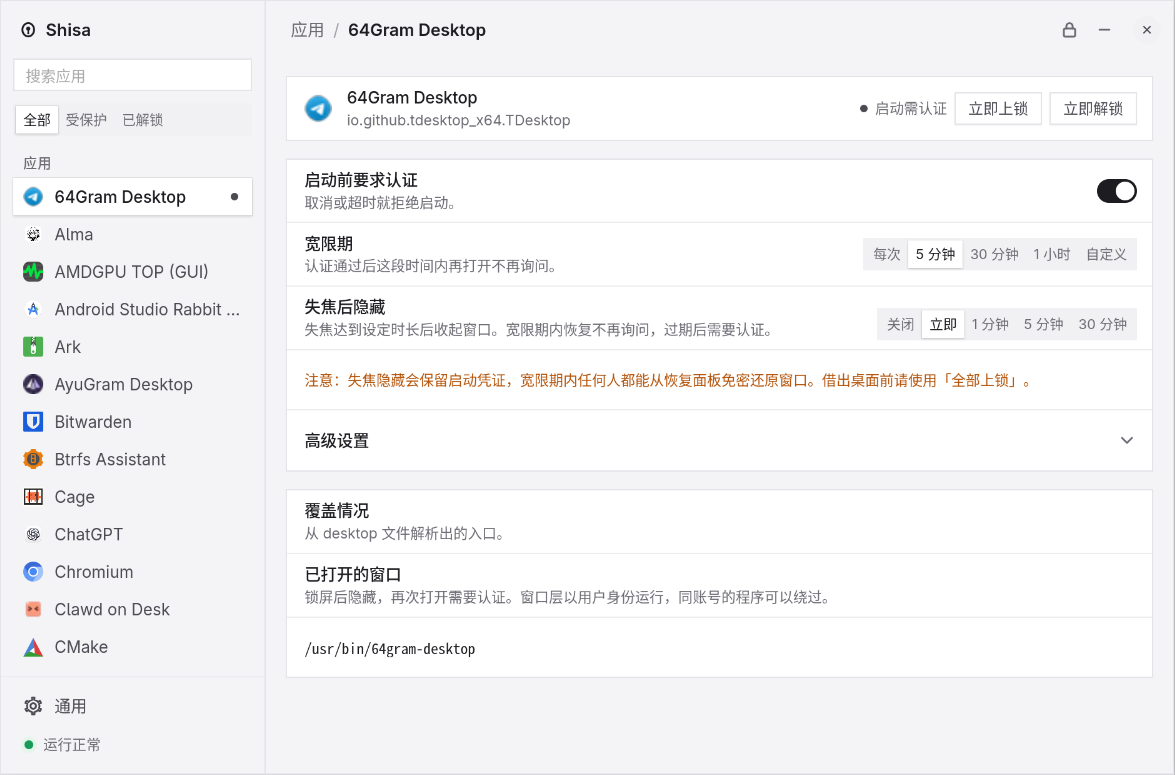
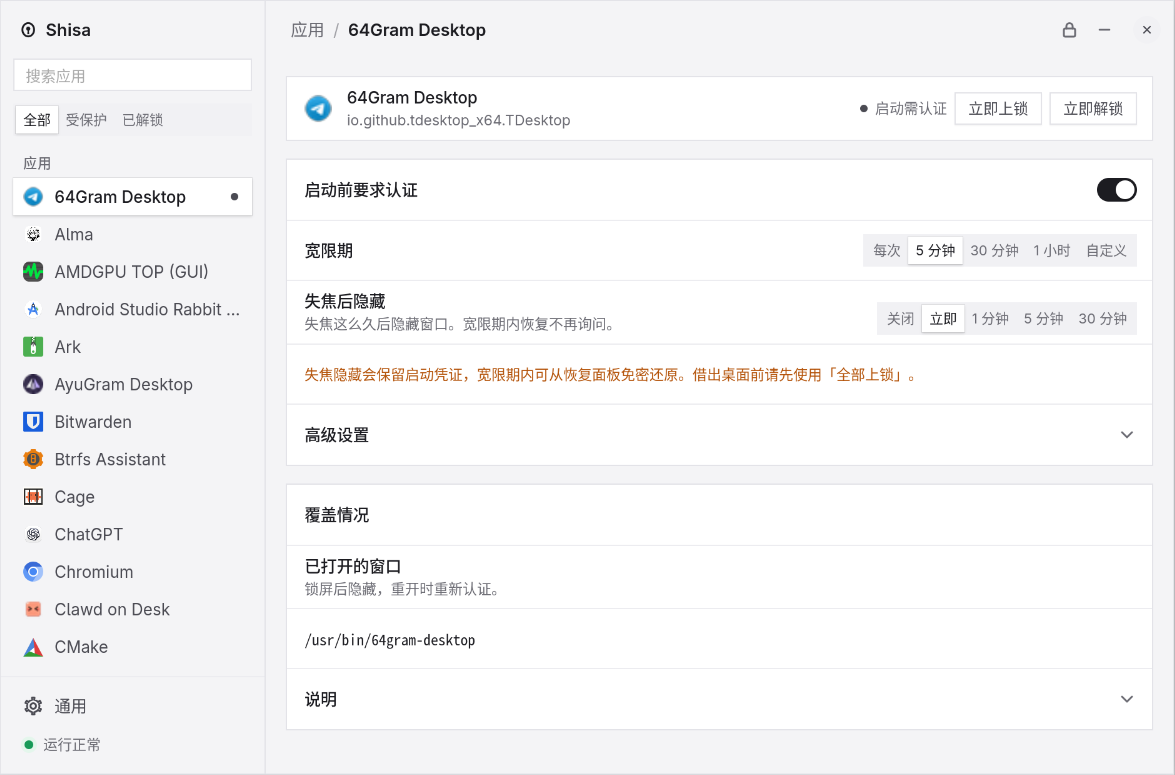
settings: shorten option copy and fold the mechanics (#22)
Drop descriptions that only repeated the label, move the lockout
rules and trust notes into per-card Notes folds, keep the faillock
command on one line, and regenerate the README screenshots.

diff --git a/gui/shisa-settings/src/i18n.js b/gui/shisa-settings/src/i18n.js
@@ -18,6 +18,7 @@ const zh = {
   "common.add": "添加",
   "common.remove": "移除",
   "common.close": "关闭",
+  "common.notes": "说明",
 
   "filters.all": "全部",
   "filters.protected": "受保护",
@@ -65,11 +66,13 @@ const zh = {
   "general.grace.name": "默认宽限期",
   "general.grace.sub": "认证通过后这段时间内再打开不再询问。",
   "general.clear.name": "锁屏时清除已通过的认证",
-  "general.clear.sub":
-    "开启时锁屏会收回已打开的受保护窗口，解锁后恢复要重新认证。关掉后锁屏不改变正在使用的窗口，只影响下一次启动。",
+  "general.clear.sub": "开启后锁屏收回受保护窗口，解锁后重新认证。",
+  "general.clear.note": "关闭时，锁屏不改变正在使用的窗口，只影响下一次启动。",
   "general.timeout.name": "认证框等待上限",
   "general.timeout.sub":
-    "最多等这么久，超时就拒绝启动。取消或超时也会被系统记一次认证失败，连续 3 次后应用锁暂停约 10 分钟，不影响登录。需要立即解除暂停时运行",
+    "超时即拒绝启动。连续 3 次认证失败会暂停应用锁约 10 分钟。",
+  "general.timeout.note":
+    "取消和超时都算一次认证失败，暂停只影响应用锁，不影响登录。需要立即解除时运行",
   "general.timeout.after": "。",
   "general.timeout.unit": "秒 · 5 到 85",
   "general.custom": "自定义",
@@ -110,20 +113,17 @@ const zh = {
   "app.unlockNow": "立即解锁",
   "app.failure": "最近一次启动失败",
   "app.protect.name": "启动前要求认证",
-  "app.protect.sub.on": "取消或超时就拒绝启动。",
   "app.grace.name": "宽限期",
-  "app.grace.sub.zero": "0 表示每次启动都要认证。",
-  "app.grace.sub": "认证通过后这段时间内再打开不再询问。",
   "app.relock.name": "失焦后隐藏",
-  "app.relock.sub":
-    "失焦达到设定时长后收起窗口。宽限期内恢复不再询问，过期后需要认证。",
+  "app.relock.sub": "失焦这么久后隐藏窗口。宽限期内恢复不再询问。",
   "app.relock.warn":
-    "注意：失焦隐藏会保留启动凭证，宽限期内任何人都能从恢复面板免密还原窗口。借出桌面前请使用「全部上锁」。",
+    "失焦隐藏会保留启动凭证，宽限期内可从恢复面板免密还原。借出桌面前请先使用「全部上锁」。",
   "app.advanced": "高级设置",
   "app.customRelock": "自定义失焦时长",
   "app.autostart.name": "自启动",
-  "app.autostart.sub":
-    "登录后 30 秒内从自启动单元启动时直接放行。这个单元名同账号可以伪造，只适合你信任自己登录后第一分钟的情况。",
+  "app.autostart.sub": "登录后 30 秒内的自启动直接放行。",
+  "app.autostart.warn":
+    "单元名同账号可以伪造，只在你信任自己登录后第一分钟时使用。",
   "app.autostart.prompt": "要求认证",
   "app.autostart.allow": "放行",
   "app.path.inactive":
@@ -133,10 +133,11 @@ const zh = {
   "app.path.none": "还没有路径。",
   "app.path.placeholder": "/usr/bin/程序 或 /opt/游戏/启动器",
   "app.coverage.name": "覆盖情况",
-  "app.coverage.sub": "从 desktop 文件解析出的入口。",
+  "app.coverage.note":
+    "覆盖情况列出从 desktop 文件解析出的入口，未生效的路径会单独标出。",
   "app.windows.name": "已打开的窗口",
-  "app.windows.sub":
-    "锁屏后隐藏，再次打开需要认证。窗口层以用户身份运行，同账号的程序可以绕过。",
+  "app.windows.sub": "锁屏后隐藏，重开时重新认证。",
+  "app.windows.note": "窗口层以用户身份运行，同账号的程序可以绕过隐藏和恢复。",
   "app.path.inactivePrefix": "未生效：",
   "app.coverage.empty": "没有从 desktop 文件解析到可保护的入口。",
   "app.none": "选择左侧的应用",
@@ -203,6 +204,7 @@ const en = {
   "common.add": "Add",
   "common.remove": "Remove",
   "common.close": "Close",
+  "common.notes": "Notes",
 
   "filters.all": "All",
   "filters.protected": "Protected",
@@ -253,10 +255,14 @@ const en = {
     "After a successful authentication, launches in this period do not ask again.",
   "general.clear.name": "Clear authentication on screen lock",
   "general.clear.sub":
-    "When on, locking the screen hides protected windows, and restoring them asks again after unlock. When off, the screen lock leaves windows in use alone and only affects the next launch.",
+    "Takes back protected windows when the screen locks. Unlocking asks again.",
+  "general.clear.note":
+    "When off, a screen lock leaves windows in use alone and only affects the next launch.",
   "general.timeout.name": "Authentication prompt timeout",
   "general.timeout.sub":
-    "After this long the launch is refused. Cancelling or timing out also counts as a failed authentication, and three in a row pause the app lock for about 10 minutes without affecting login. To clear it immediately, run",
+    "Timing out refuses the launch. Three failures in a row pause the app lock for about 10 minutes.",
+  "general.timeout.note":
+    "Cancelling and timing out both count as a failure. The pause affects only the app lock, not login. To clear it immediately, run",
   "general.timeout.after": ".",
   "general.timeout.unit": "seconds · 5 to 85",
   "general.custom": "Custom",
@@ -301,21 +307,19 @@ const en = {
   "app.unlockNow": "Unlock now",
   "app.failure": "Last launch failed",
   "app.protect.name": "Require authentication before launch",
-  "app.protect.sub.on": "Cancelling or timing out refuses the launch.",
   "app.grace.name": "Grace period",
-  "app.grace.sub.zero": "0 means every launch asks for authentication.",
-  "app.grace.sub":
-    "After a successful authentication, launches in this period do not ask again.",
   "app.relock.name": "Hide when focus is lost",
   "app.relock.sub":
-    "After this long without focus the window is hidden. Restoring it within the grace period does not ask again, and asks after it expires.",
+    "Hides the window after this long without focus. Restoring in the grace period does not ask again.",
   "app.relock.warn":
-    "Note: a focus-loss hide keeps the launch ticket, so until the grace period ends anyone can restore the window from the restore panel without the app-lock password. Use Lock all before lending the desktop.",
+    "A focus-loss hide keeps the launch ticket, so the restore panel reopens the window without a password until the grace period ends. Use Lock all before lending the desktop.",
   "app.advanced": "Advanced settings",
   "app.customRelock": "Custom focus-loss delay",
   "app.autostart.name": "Autostart",
   "app.autostart.sub":
-    "A launch from the autostart unit within 30 seconds of login is allowed without a prompt. The unit name can be forged by the same account, so use this only if you trust the first minute after your own login.",
+    "A launch from the autostart unit within 30 seconds of login is allowed without a prompt.",
+  "app.autostart.warn":
+    "The unit name can be forged by the same account. Use this only if you trust the first minute after your login.",
   "app.autostart.prompt": "Ask for authentication",
   "app.autostart.allow": "Allow",
   "app.path.inactive":
@@ -325,10 +329,12 @@ const en = {
   "app.path.none": "No paths yet.",
   "app.path.placeholder": "/usr/bin/program or /opt/game/launcher",
   "app.coverage.name": "Coverage",
-  "app.coverage.sub": "Entries resolved from the desktop file.",
+  "app.coverage.note":
+    "Coverage lists the entries resolved from the desktop file, and marks paths that are not in effect.",
   "app.windows.name": "Open windows",
-  "app.windows.sub":
-    "Hidden after a lock, and asks for authentication when reopened. The window layer runs as the user, so programs under the same account can bypass it.",
+  "app.windows.sub": "Hidden after a lock, and asks again when reopened.",
+  "app.windows.note":
+    "The window layer runs as the user, so programs under the same account can bypass hiding and restoring.",
   "app.path.inactivePrefix": "Inactive: ",
   "app.coverage.empty":
     "No protectable entry was resolved from the desktop file.",

diff --git a/gui/shisa-settings/src/App.svelte b/gui/shisa-settings/src/App.svelte
@@ -919,10 +919,7 @@
               <div class="prefrow">
                 <div class="who">
                   <div class="name">{t("general.timeout.name")}</div>
-                  <div class="sub">
-                    {t("general.timeout.sub")}
-                    <code>sudo faillock --user {adminUser} --reset</code>{t("general.timeout.after")}
-                  </div>
+                  <div class="sub">{t("general.timeout.sub")}</div>
                 </div>
                 <div class="val">
                   <input
@@ -936,6 +933,29 @@
                   <span class="unit">{t("general.timeout.unit")}</span>
                 </div>
               </div>
+              <!-- Mechanics stay folded: the visible line carries the consequence,
+                   while the command and the lockout rules are lookup material. -->
+              <details class="advanced">
+                <summary class="prefrow adv-toggle">
+                  <span class="name">{t("common.notes")}</span>
+                  <svg class="chev" viewBox="0 0 16 16" aria-hidden="true">
+                    <path d="m4 6 4 4 4-4" />
+                  </svg>
+                </summary>
+                <div class="prefrow">
+                  <div class="who">
+                    <div class="sub">{t("general.clear.note")}</div>
+                  </div>
+                </div>
+                <div class="prefrow">
+                  <div class="who">
+                    <div class="sub">
+                      {t("general.timeout.note")}
+                      <code>sudo faillock --user {adminUser} --reset</code>{t("general.timeout.after")}
+                    </div>
+                  </div>
+                </div>
+              </details>
             </div>
           </section>
           <section class="set">
@@ -1113,7 +1133,6 @@
               <div class="prefrow">
                 <div class="who">
                   <div class="name">{t("app.protect.name")}</div>
-                  {#if config.protected}<div class="sub">{t("app.protect.sub.on")}</div>{/if}
                 </div>
                 <button
                   class="lib-switch"
@@ -1128,7 +1147,6 @@
                 <div class="prefrow">
                   <div class="who">
                     <div class="name">{t("app.grace.name")}</div>
-                    <div class="sub">{config.grace === 0 ? t("app.grace.sub.zero") : t("app.grace.sub")}</div>
                   </div>
                   {@render secondsPicker(config.grace, graceApp, (on) => (graceApp = on), setGrace, gracePresets(t), 31536000, 30)}
                 </div>
@@ -1166,6 +1184,7 @@
                   <div class="who">
                     <div class="name">{t("app.autostart.name")}</div>
                     <div class="sub">{t("app.autostart.sub")}</div>
+                    <div class="sub warn">{t("app.autostart.warn")}</div>
                   </div>
                   <div class="segs two">
                     <button class="opt" class:on={!config.autostart} onclick={() => setAutostart(false)}>{t("app.autostart.prompt")}</button>
@@ -1213,7 +1232,6 @@
               <div class="prefrow">
                 <div class="who">
                   <div class="name">{t("app.coverage.name")}</div>
-                  <div class="sub">{t("app.coverage.sub")}</div>
                 </div>
               </div>
               <div class="prefrow">
@@ -1234,6 +1252,26 @@
               {#each notes as note}
                 <div class="prefrow"><div class="who"><div class="sub bad">{note}</div></div></div>
               {/each}
+              <!-- The trust boundary of the window layer is a setup-time caveat,
+                   so it stays out of the day-to-day rows. -->
+              <details class="advanced">
+                <summary class="prefrow adv-toggle">
+                  <span class="name">{t("common.notes")}</span>
+                  <svg class="chev" viewBox="0 0 16 16" aria-hidden="true">
+                    <path d="m4 6 4 4 4-4" />
+                  </svg>
+                </summary>
+                <div class="prefrow">
+                  <div class="who">
+                    <div class="sub">{t("app.coverage.note")}</div>
+                  </div>
+                </div>
+                <div class="prefrow">
+                  <div class="who">
+                    <div class="sub">{t("app.windows.note")}</div>
+                  </div>
+                </div>
+              </details>
             </div>
           </section>
       {:else}

diff --git a/gui/shisa-settings/src/app.css b/gui/shisa-settings/src/app.css
@@ -850,6 +850,9 @@ button.prefrow {
   border-radius: 0;
   background: var(--pill);
   color: var(--fg-2);
+  /* A wrapped flag reads as two commands. The row is at least 760px wide, so
+     the whole command still fits on one line. */
+  white-space: nowrap;
 }
 
 .prefrow .app-ic {

diff --git a/docs/packaging.md b/docs/packaging.md
@@ -115,6 +115,8 @@ On 2026-11-24, v0.1.6 built in the packages workflow (run 45212387333) and all f
 
 On 2026-11-24, a local test package `shisa-0.1.6-1.1` with the keyhole-ring tray icons, the keyhole app tile, and the keyhole sidebar brand was built from the worktree with `prepare-build.sh --worktree`. `makepkg`'s `check()` passed the workspace, settings frontend, Tauri, and KWin script suites. The package installed over `0.1.5-1.1` with `pacman -U`, `pacman -Qkk shisa` reported 0 changed files out of 55, and `shisad.service` and `shisa-agent.service` restarted, both active. The app tile mark was then enlarged from 5.3 to 6.0 and the package rebuilt and reinstalled, again with 0 changed files, and `plasmashell --replace` was run to drop the cached panel pixmaps. The README screenshots were regenerated from the installed build at 1175x775 with the new sidebar brand. Live tray and launcher verification is pending.
 
+On 2026-11-24, a local test package `shisa-0.1.6-1.1` with the shortened settings copy and the per-card `Notes` folds was built from the worktree with `prepare-build.sh --worktree`. `makepkg`'s `check()` passed the workspace, settings frontend (9 Node and 12 vitest tests), Tauri, and KWin script suites. It installed over `0.1.6-1.1` with `pacman -U`, the file list matched the previous package (54 paths), and `pacman -Qkk shisa` reported 0 changed files out of 55. Both services stayed active. The frontend asset embedded by `tauri-codegen` was decompressed from the build's `tauri-codegen-assets` directory, matched the `dist` bundle by sha256, and contains the new sentences and none of the removed ones. The installed binary also matches the packaged file by sha256. The services were not restarted because only the frontend changed. The app page and the General page with its `Notes` fold expanded were then captured from the installed window in the live Wayland session, and the layout matched the design: the duplicated rows are gone and both folds open in place. The inline `faillock` command wrapped inside the fold, so `.prefrow .sub code` now carries `white-space: nowrap`. The package was rebuilt for that rule and installed again over `0.1.6-1.1`, again with 0 changed files out of 55, the embedded CSS matched the `dist` stylesheet by sha256, and the live window then showed the `faillock` command intact on one line. The README screenshots `docs/images/settings.png` and `settings-zh.png` were regenerated at 1175x775 from the installed window, using isolated `XDG_CONFIG_HOME` directories for the English and Chinese runs so the saved language was not changed.
+
 ## Dependency advisories
 
 On 2026-11-22, the two open Dependabot alerts were reviewed.

diff --git a/docs/subsystems/configuration.md b/docs/subsystems/configuration.md
@@ -108,3 +108,5 @@ The CLI and settings share the daemon's policy operations. The tray and CLI shar
 See [Tests and verification](../testing.md) for configuration changes and D-Bus permission coverage.
 
 On 2026-11-21, the interface language was checked with `cargo test --workspace` and `cargo clippy --workspace --all-targets` (both clean), `(cd gui/shisa-settings && npm test)` (9 passed) and `npm run build`, plus the settings shell's `cargo test` (3 passed) and `cargo build --features custom-protocol`. The live selector click and the tray language change were not exercised here and still need a check in a Wayland session.
+
+On 2026-11-24, the settings window's descriptions were shortened and the mechanics moved into per-card `Notes` folds. The dictionaries keep the same key set in both languages (156 keys each), and `npm test` (9 node tests, 12 vitest tests) and `npm run build` pass. The fold is a `<details>` element so the page search still reads the text, and the search still opens a matching fold. The app and General pages were checked in a live Wayland session, and `docs/images/settings.png` and `settings-zh.png` were regenerated from the installed build at 1175x775.
